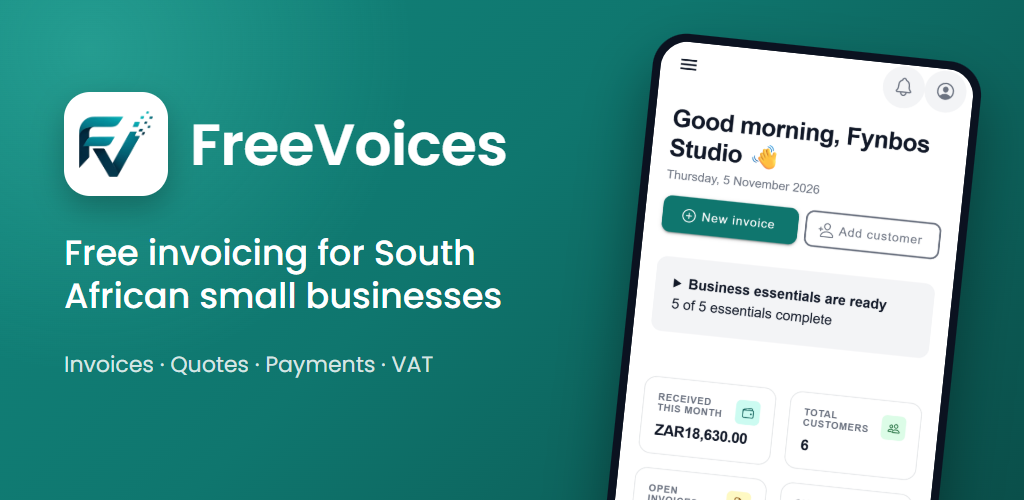
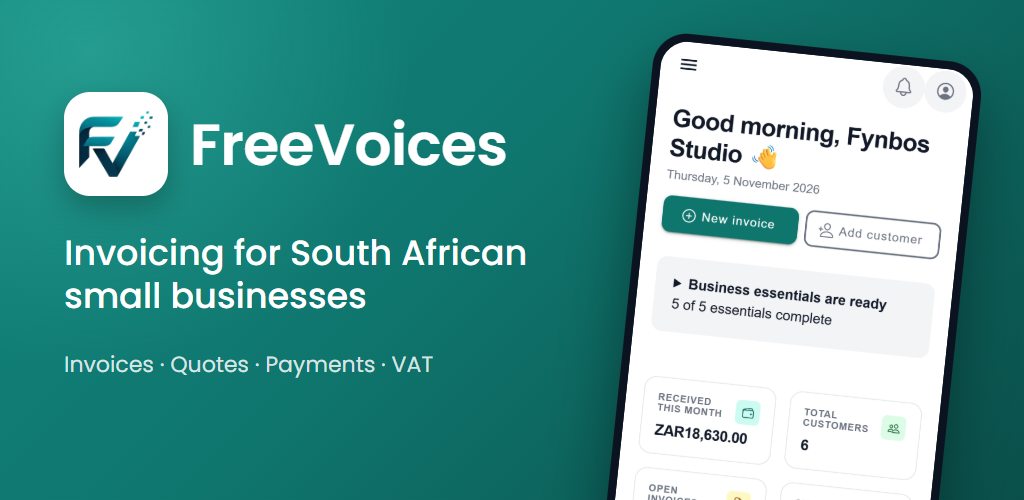
fix: remove "Free" from Play title and feature graphic
Google rejected the first production submission under the Metadata
policy: price wording like "Free" isn't allowed in the title, icon or
promotional graphics. Retitle the listing "FreeVoices: Invoices & Quotes",
reword the short description and feature graphic, and note the rule in
LISTING.md.

Changed region(s): [[0.0625, 0.48, 0.5312, 0.63]]

diff --git a/freevoices/store-listing/android/LISTING.md b/freevoices/store-listing/android/LISTING.md
@@ -18,11 +18,16 @@ fictional business ("Fynbos Studio"). No real customer data appears in any image
 
 ## Main store listing
 
-**App name** (30 max): `FreeVoices: Free Invoicing` — 26 chars
+> **Metadata policy:** Google rejected the first production submission (10 Nov 2026) for the word
+> "Free" in the app icon. Play treats price or promotional wording ("Free", "Sale", "#1", "Best")
+> as a violation in the **title, icon, developer name and promotional graphics**. Keep "free" out
+> of those. The brand name FreeVoices is fine. The full description may say the app is free.
+
+**App name** (30 max): `FreeVoices: Invoices & Quotes` — 29 chars
 
 **Short description** (80 max):
 
-> Free invoices and quotes for South African small businesses. VAT-ready PDFs.
+> Invoices and quotes for South African small businesses, with VAT-ready PDFs.
 
 (76 chars)
 
